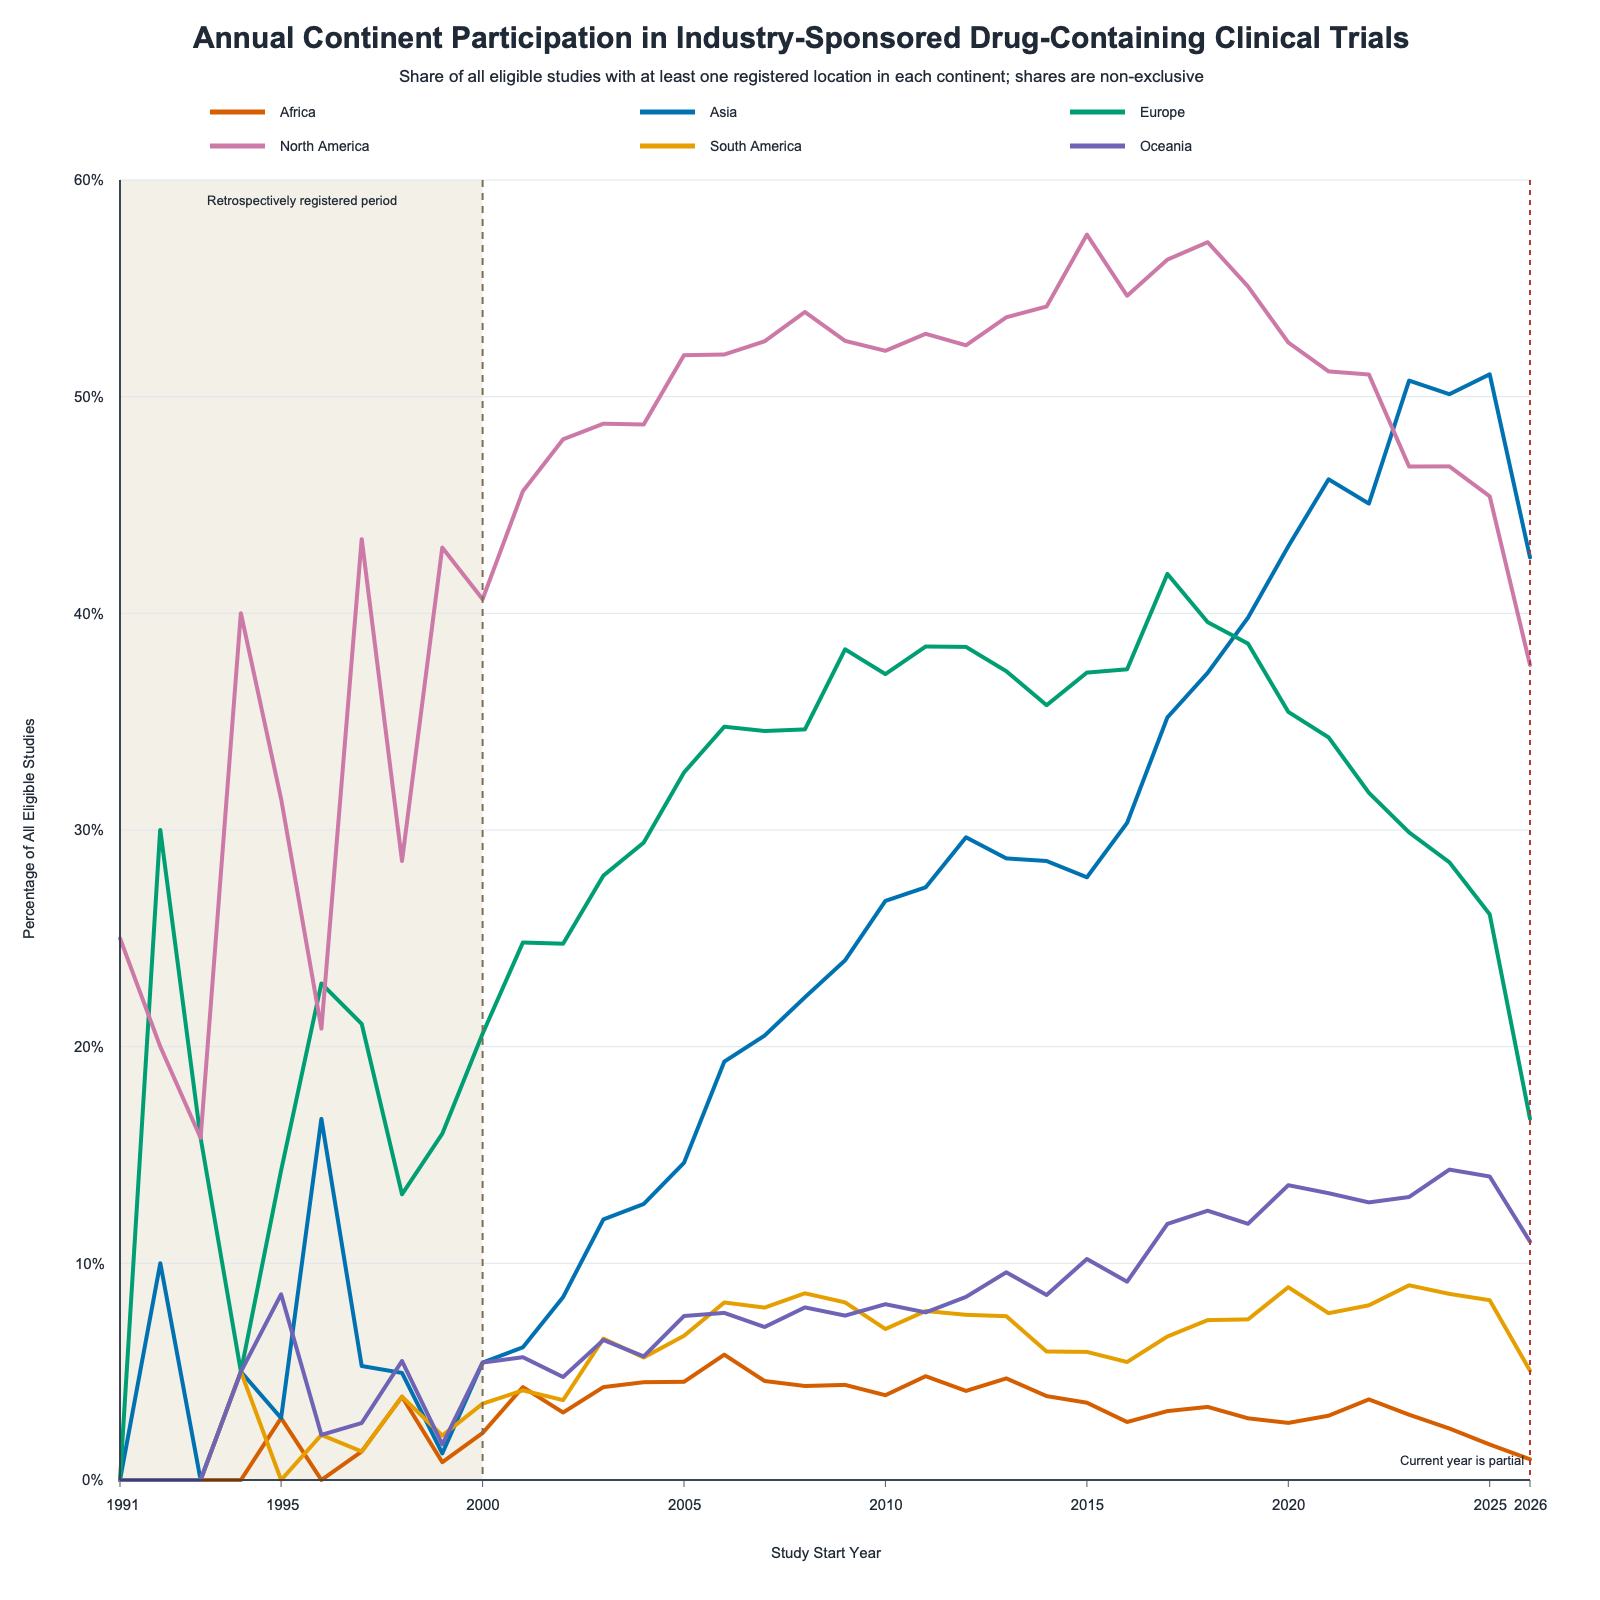
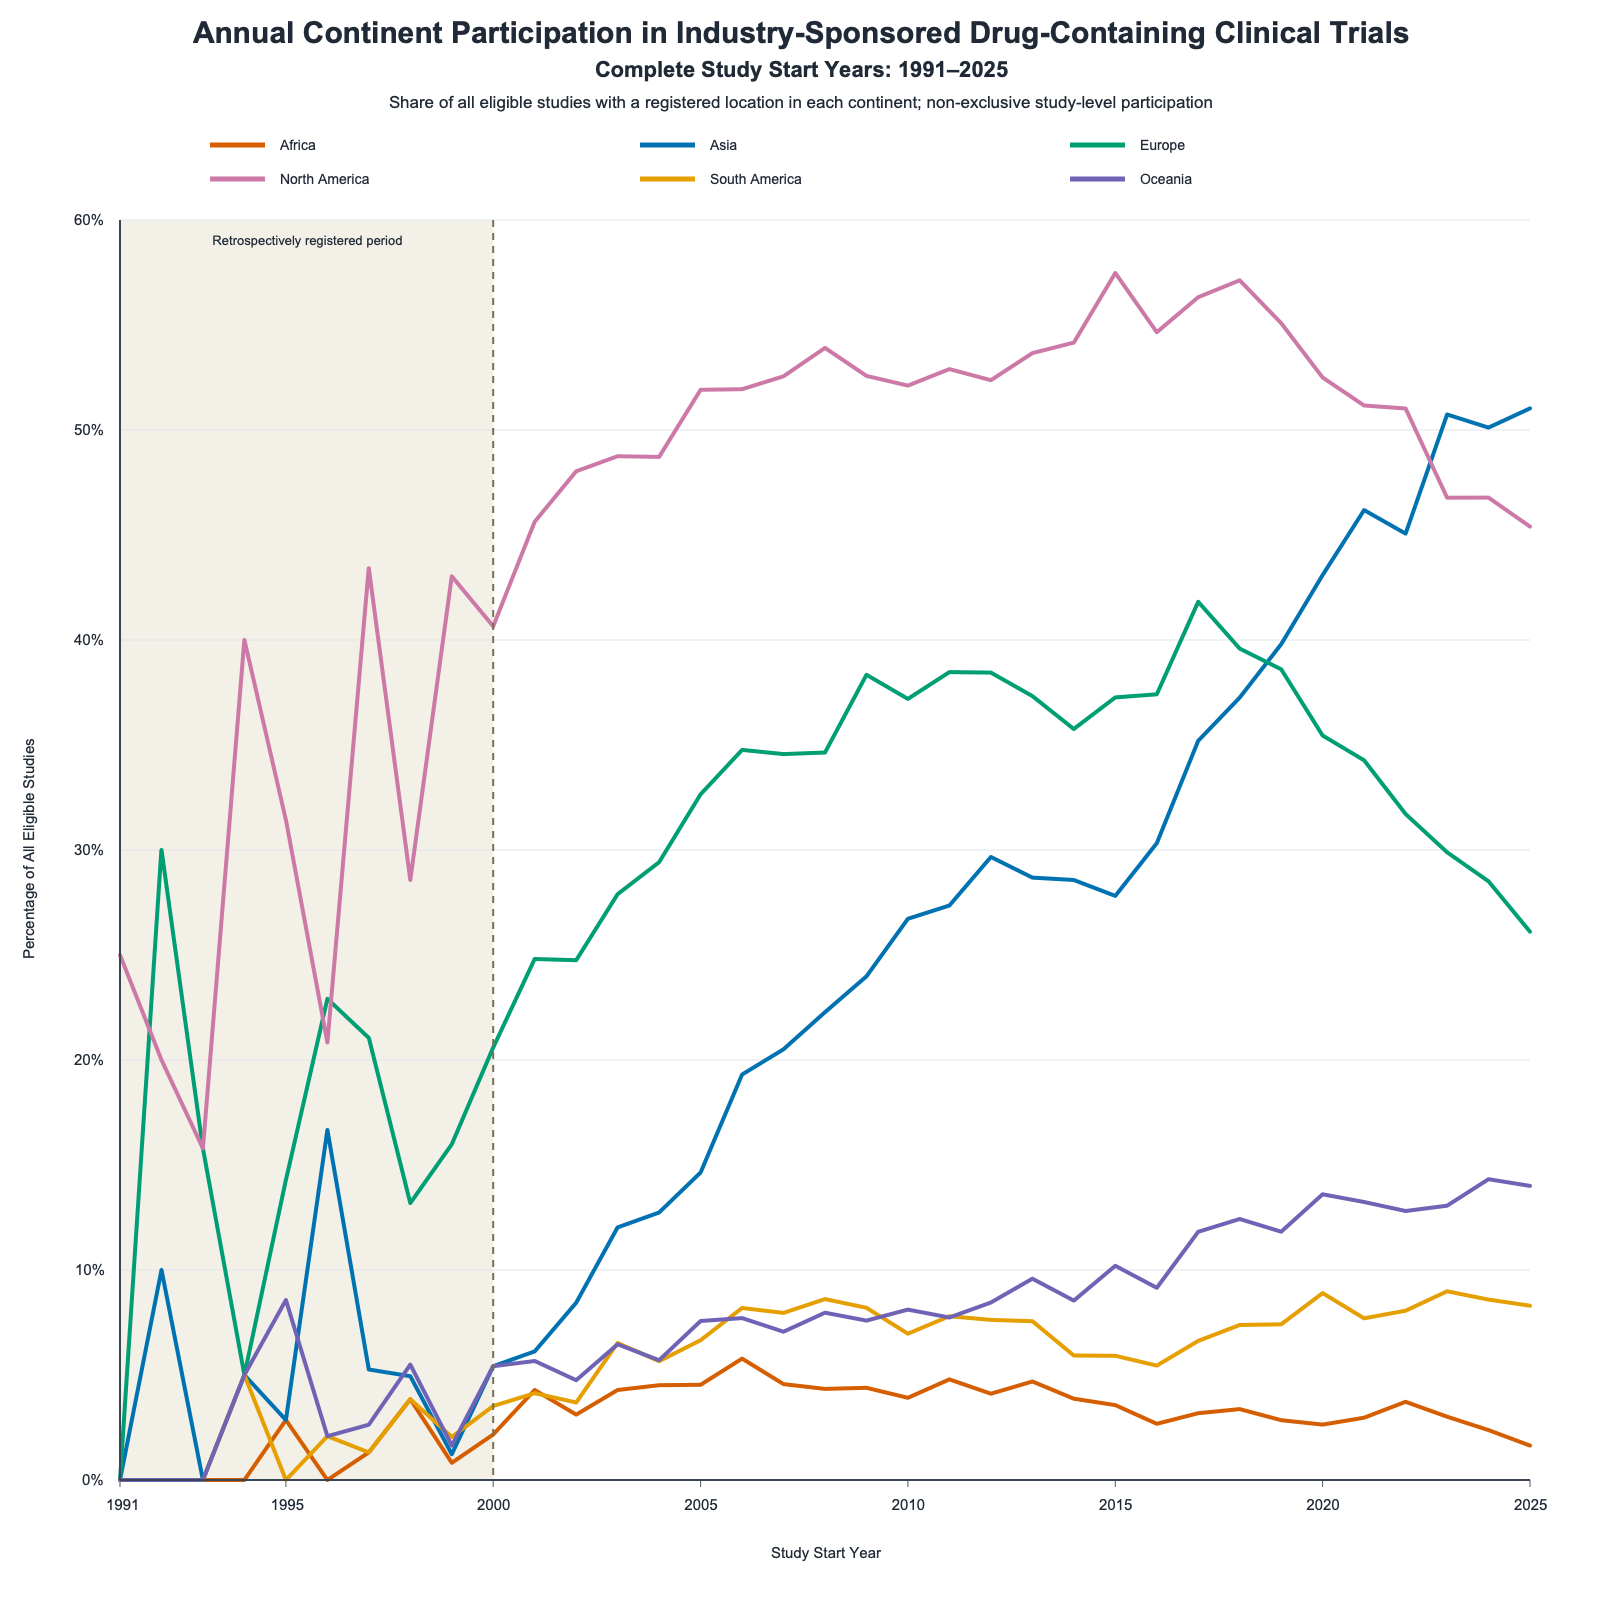
year cutoff to 2025

diff --git a/country_participation.py b/country_participation.py
@@ -412,9 +412,18 @@ def write_csv(path: Path, rows: list[dict], fieldnames: list[str]) -> None:
         writer.writerows(rows)
 
 
+def completed_chart_rows(rows: list[dict], latest_complete_year: int) -> list[dict]:
+    """Exclude partial/future Start Years from chart inputs."""
+    completed = [row for row in rows if row["Year"] <= latest_complete_year]
+    if not completed:
+        raise ValueError("chart has no completed Start Year observations")
+    return completed
+
+
 def chart_svg(rows: list[dict], path: Path, latest_complete_year: int) -> None:
+    rows = completed_chart_rows(rows, latest_complete_year)
     width, height = 1600, 1600
-    left, right, top, bottom = 120, 70, 145, 120
+    left, right, top, bottom = 120, 70, 175, 120
     plot_w, plot_h = width - left - right, height - top - bottom
     years = [row["Year"] for row in rows]
     annual = [row["Unique Countries Involved"] for row in rows]
@@ -429,9 +438,10 @@ def chart_svg(rows: list[dict], path: Path, latest_complete_year: int) -> None:
     parts = [
         f'<svg xmlns="http://www.w3.org/2000/svg" width="{width}" height="{height}" viewBox="0 0 {width} {height}">',
         f'<rect x="0" y="0" width="{width}" height="{height}" fill="#ffffff" fill-opacity="1"/>',
-        '<style>text{font-family:Arial,Helvetica,sans-serif;fill:#202936}.title{font-size:30px;font-weight:700}.subtitle{font-size:17px;fill:#556273}.axis{font-size:15px}.small{font-size:13px;fill:#687486}.legend{font-size:15px}</style>',
-        '<text x="800" y="48" text-anchor="middle" class="title">Annual Geographic Breadth of Industry-Sponsored Drug-Containing Clinical Trials</text>',
-        '<text x="800" y="82" text-anchor="middle" class="subtitle">Interventional studies with Lead Sponsor Class = INDUSTRY and at least one DRUG intervention</text>',
+        '<style>text{font-family:Arial,Helvetica,sans-serif;fill:#202936}.title{font-size:30px;font-weight:700}.period{font-size:22px;font-weight:700;fill:#146c94}.subtitle{font-size:17px;fill:#556273}.axis{font-size:15px}.small{font-size:13px;fill:#687486}.legend{font-size:15px}</style>',
+        '<text x="800" y="43" text-anchor="middle" class="title">Annual Geographic Breadth of Industry-Sponsored Drug-Containing Clinical Trials</text>',
+        f'<text x="800" y="77" text-anchor="middle" class="period">Complete Study Start Years: {years[0]}–{years[-1]}</text>',
+        '<text x="800" y="108" text-anchor="middle" class="subtitle">Interventional studies with Lead Sponsor Class = INDUSTRY and at least one DRUG intervention</text>',
         f'<rect x="{left}" y="{top}" width="{max(0, x(2000)-left):.1f}" height="{plot_h}" fill="#f3f0e8"/>',
         f'<text x="{(left+x(2000))/2:.1f}" y="{top+25}" text-anchor="middle" class="small">Pre-ClinicalTrials.gov / retrospectively registered period</text>',
     ]
@@ -451,20 +461,19 @@ def chart_svg(rows: list[dict], path: Path, latest_complete_year: int) -> None:
         f'<line x1="{left}" y1="{top}" x2="{left}" y2="{top+plot_h}" stroke="#394553" stroke-width="2"/>',
         f'<polyline points="{rolling_points}" fill="none" stroke="#9aa7b2" stroke-width="4" stroke-linejoin="round" stroke-linecap="round"/>',
         f'<polyline points="{annual_points}" fill="none" stroke="#146c94" stroke-width="5" stroke-linejoin="round" stroke-linecap="round"/>',
-        f'<line x1="{x(latest_complete_year+1):.1f}" y1="{top}" x2="{x(latest_complete_year+1):.1f}" y2="{top+plot_h}" stroke="#b33a3a" stroke-width="2" stroke-dasharray="5 5"/>',
-        f'<text x="{x(latest_complete_year+1)-8:.1f}" y="{top+plot_h-15}" text-anchor="end" class="small">Current year is partial</text>',
         f'<text x="{left+plot_w/2:.1f}" y="{height-42}" text-anchor="middle" class="axis">Study Start Year</text>',
         f'<text x="34" y="{top+plot_h/2:.1f}" text-anchor="middle" class="axis" transform="rotate(-90 34 {top+plot_h/2:.1f})">Number of Unique Countries Involved</text>',
-        f'<line x1="{width-520}" y1="110" x2="{width-465}" y2="110" stroke="#146c94" stroke-width="5"/><text x="{width-450}" y="115" class="legend">Annual active countries</text>',
-        f'<line x1="{width-270}" y1="110" x2="{width-215}" y2="110" stroke="#9aa7b2" stroke-width="4"/><text x="{width-200}" y="115" class="legend">3-year rolling</text>',
+        f'<line x1="{width-520}" y1="140" x2="{width-465}" y2="140" stroke="#146c94" stroke-width="5"/><text x="{width-450}" y="145" class="legend">Annual active countries</text>',
+        f'<line x1="{width-270}" y1="140" x2="{width-215}" y2="140" stroke="#9aa7b2" stroke-width="4"/><text x="{width-200}" y="145" class="legend">3-year rolling</text>',
         '</svg>',
     ]
     path.write_text("\n".join(parts) + "\n", encoding="utf-8")
 
 
 def continent_chart_svg(rows: list[dict], path: Path, latest_complete_year: int) -> None:
+    rows = completed_chart_rows(rows, latest_complete_year)
     width, height = 1600, 1600
-    left, right, top, bottom = 120, 70, 180, 120
+    left, right, top, bottom = 120, 70, 220, 120
     plot_w, plot_h = width - left - right, height - top - bottom
     years = sorted({row["Year"] for row in rows})
     by_continent = {
@@ -491,9 +500,10 @@ def continent_chart_svg(rows: list[dict], path: Path, latest_complete_year: int)
     parts = [
         f'<svg xmlns="http://www.w3.org/2000/svg" width="{width}" height="{height}" viewBox="0 0 {width} {height}">',
         f'<rect x="0" y="0" width="{width}" height="{height}" fill="#ffffff" fill-opacity="1"/>',
-        '<style>text{font-family:Arial,Helvetica,sans-serif;fill:#202936}.title{font-size:30px;font-weight:700}.subtitle{font-size:17px;fill:#556273}.axis{font-size:15px}.small{font-size:13px;fill:#687486}.legend{font-size:14px}</style>',
-        '<text x="800" y="48" text-anchor="middle" class="title">Annual Continent Participation in Industry-Sponsored Drug-Containing Clinical Trials</text>',
-        '<text x="800" y="82" text-anchor="middle" class="subtitle">Share of all eligible studies with at least one registered location in each continent; shares are non-exclusive</text>',
+        '<style>text{font-family:Arial,Helvetica,sans-serif;fill:#202936}.title{font-size:30px;font-weight:700}.period{font-size:22px;font-weight:700;fill:#146c94}.subtitle{font-size:17px;fill:#556273}.axis{font-size:15px}.small{font-size:13px;fill:#687486}.legend{font-size:14px}</style>',
+        '<text x="800" y="43" text-anchor="middle" class="title">Annual Continent Participation in Industry-Sponsored Drug-Containing Clinical Trials</text>',
+        f'<text x="800" y="77" text-anchor="middle" class="period">Complete Study Start Years: {years[0]}–{years[-1]}</text>',
+        '<text x="800" y="108" text-anchor="middle" class="subtitle">Share of all eligible studies with a registered location in each continent; non-exclusive study-level participation</text>',
         f'<rect x="{left}" y="{top}" width="{max(0, x(2000)-left):.1f}" height="{plot_h}" fill="#f3f0e8"/>',
         f'<text x="{(left+x(2000))/2:.1f}" y="{top+25}" text-anchor="middle" class="small">Retrospectively registered period</text>',
     ]
@@ -521,8 +531,6 @@ def continent_chart_svg(rows: list[dict], path: Path, latest_complete_year: int)
         )
     parts += [
         f'<line x1="{x(2000):.1f}" y1="{top}" x2="{x(2000):.1f}" y2="{top+plot_h}" stroke="#7a6f55" stroke-width="2" stroke-dasharray="7 6"/>',
-        f'<line x1="{x(latest_complete_year+1):.1f}" y1="{top}" x2="{x(latest_complete_year+1):.1f}" y2="{top+plot_h}" stroke="#b33a3a" stroke-width="2" stroke-dasharray="5 5"/>',
-        f'<text x="{x(latest_complete_year+1)-8:.1f}" y="{top+plot_h-15}" text-anchor="end" class="small">Current year is partial</text>',
         f'<line x1="{left}" y1="{top+plot_h}" x2="{width-right}" y2="{top+plot_h}" stroke="#394553" stroke-width="2"/>',
         f'<line x1="{left}" y1="{top}" x2="{left}" y2="{top+plot_h}" stroke="#394553" stroke-width="2"/>',
         f'<text x="{left+plot_w/2:.1f}" y="{height-42}" text-anchor="middle" class="axis">Study Start Year</text>',
@@ -530,7 +538,7 @@ def continent_chart_svg(rows: list[dict], path: Path, latest_complete_year: int)
     ]
     for index, continent in enumerate(CONTINENT_ORDER):
         legend_x = 210 + (index % 3) * 430
-        legend_y = 112 + (index // 3) * 34
+        legend_y = 145 + (index // 3) * 34
         parts += [
             f'<line x1="{legend_x}" y1="{legend_y}" x2="{legend_x+55}" y2="{legend_y}" stroke="{colors[continent]}" stroke-width="5"/>',
             f'<text x="{legend_x+70}" y="{legend_y+5}" class="legend">{continent}</text>',
@@ -540,8 +548,9 @@ def continent_chart_svg(rows: list[dict], path: Path, latest_complete_year: int)
 
 
 def nexus_chart_svg(rows: list[dict], path: Path, latest_complete_year: int) -> None:
+    rows = completed_chart_rows(rows, latest_complete_year)
     width, height = 1600, 1600
-    left, right, top, bottom = 120, 70, 155, 120
+    left, right, top, bottom = 120, 70, 185, 120
     plot_w, plot_h = width - left - right, height - top - bottom
     years = [row["Year"] for row in rows]
     counts = [row["NEXUS Studies"] for row in rows]
@@ -556,9 +565,10 @@ def nexus_chart_svg(rows: list[dict], path: Path, latest_complete_year: int) -> 
     parts = [
         f'<svg xmlns="http://www.w3.org/2000/svg" width="{width}" height="{height}" viewBox="0 0 {width} {height}">',
         f'<rect x="0" y="0" width="{width}" height="{height}" fill="#ffffff" fill-opacity="1"/>',
-        '<style>text{font-family:Arial,Helvetica,sans-serif;fill:#202936}.title{font-size:30px;font-weight:700}.subtitle{font-size:17px;fill:#556273}.axis{font-size:15px}.small{font-size:13px;fill:#687486}.legend{font-size:15px}</style>',
-        '<text x="800" y="48" text-anchor="middle" class="title">Annual NEXUS Studies by Registered Study Start Year</text>',
-        '<text x="800" y="82" text-anchor="middle" class="subtitle">Industry-sponsored Interventional DRUG-containing studies with both United States and China registered locations</text>',
+        '<style>text{font-family:Arial,Helvetica,sans-serif;fill:#202936}.title{font-size:30px;font-weight:700}.period{font-size:22px;font-weight:700;fill:#7b2cbf}.subtitle{font-size:17px;fill:#556273}.axis{font-size:15px}.small{font-size:13px;fill:#687486}.legend{font-size:15px}</style>',
+        '<text x="800" y="43" text-anchor="middle" class="title">Annual NEXUS Studies by Registered Study Start Year</text>',
+        f'<text x="800" y="77" text-anchor="middle" class="period">Complete Study Start Years: {years[0]}–{years[-1]}</text>',
+        '<text x="800" y="108" text-anchor="middle" class="subtitle">Industry-sponsored Interventional DRUG-containing studies with both United States and China locations</text>',
         f'<rect x="{left}" y="{top}" width="{max(0, x(2000)-left):.1f}" height="{plot_h}" fill="#f3f0e8"/>',
         f'<text x="{(left+x(2000))/2:.1f}" y="{top+25}" text-anchor="middle" class="small">Retrospectively registered period</text>',
     ]
@@ -577,16 +587,14 @@ def nexus_chart_svg(rows: list[dict], path: Path, latest_complete_year: int) -> 
             ]
     parts += [
         f'<line x1="{x(2000):.1f}" y1="{top}" x2="{x(2000):.1f}" y2="{top+plot_h}" stroke="#7a6f55" stroke-width="2" stroke-dasharray="7 6"/>',
-        f'<line x1="{x(latest_complete_year+1):.1f}" y1="{top}" x2="{x(latest_complete_year+1):.1f}" y2="{top+plot_h}" stroke="#b33a3a" stroke-width="2" stroke-dasharray="5 5"/>',
         f'<polyline points="{moving_points}" fill="none" stroke="#9aa7b2" stroke-width="4" stroke-linejoin="round" stroke-linecap="round"/>',
         f'<polyline points="{count_points}" fill="none" stroke="#7b2cbf" stroke-width="5" stroke-linejoin="round" stroke-linecap="round"/>',
-        f'<text x="{x(latest_complete_year+1)-8:.1f}" y="{top+plot_h-15}" text-anchor="end" class="small">Current year is partial</text>',
         f'<line x1="{left}" y1="{top+plot_h}" x2="{width-right}" y2="{top+plot_h}" stroke="#394553" stroke-width="2"/>',
         f'<line x1="{left}" y1="{top}" x2="{left}" y2="{top+plot_h}" stroke="#394553" stroke-width="2"/>',
         f'<text x="{left+plot_w/2:.1f}" y="{height-42}" text-anchor="middle" class="axis">Study Start Year</text>',
         f'<text x="34" y="{top+plot_h/2:.1f}" text-anchor="middle" class="axis" transform="rotate(-90 34 {top+plot_h/2:.1f})">Number of NEXUS Studies</text>',
-        f'<line x1="{width-580}" y1="112" x2="{width-525}" y2="112" stroke="#7b2cbf" stroke-width="5"/><text x="{width-510}" y="117" class="legend">Annual NEXUS studies</text>',
-        f'<line x1="{width-300}" y1="112" x2="{width-245}" y2="112" stroke="#9aa7b2" stroke-width="4"/><text x="{width-230}" y="117" class="legend">3-year moving average</text>',
+        f'<line x1="{width-580}" y1="145" x2="{width-525}" y2="145" stroke="#7b2cbf" stroke-width="5"/><text x="{width-510}" y="150" class="legend">Annual NEXUS studies</text>',
+        f'<line x1="{width-300}" y1="145" x2="{width-245}" y2="145" stroke="#9aa7b2" stroke-width="4"/><text x="{width-230}" y="150" class="legend">3-year moving average</text>',
         "</svg>",
     ]
     path.write_text("\n".join(parts) + "\n", encoding="utf-8")

diff --git a/tests/test_country_participation.py b/tests/test_country_participation.py
@@ -2,7 +2,8 @@ import unittest
 from pathlib import Path
 
 from country_participation import (
-    aggregate_observations, eligible_observation, load_continent_mapping, parse_start_year,
+    aggregate_observations, completed_chart_rows, eligible_observation, load_continent_mapping,
+    parse_start_year,
 )
 
 
@@ -19,6 +20,13 @@ def study(nct_id, start_date, countries, *, study_type="INTERVENTIONAL",
 
 
 class CountryParticipationTests(unittest.TestCase):
+    def test_completed_chart_rows_excludes_partial_snapshot_year(self):
+        rows = [{"Year": 2024}, {"Year": 2025}, {"Year": 2026}]
+        self.assertEqual(
+            completed_chart_rows(rows, 2025),
+            [{"Year": 2024}, {"Year": 2025}],
+        )
+
     def test_start_year_accepts_supported_precision_and_rejects_invalid_dates(self):
         self.assertEqual(parse_start_year("2024"), 2024)
         self.assertEqual(parse_start_year("2024-02"), 2024)

diff --git a/README.md b/README.md
@@ -116,7 +116,7 @@ Add `--phase-audit` to require a Phase-enabled snapshot and emit two aggregate-o
   --outdir reports/country_participation_trend
 ```
 
-Outputs are lightweight annual, first-participation, and returning-country CSVs; a summary-only workbook and Markdown report; and PNG/SVG trend charts. No study-level export is created. Pre-2000 Start Dates are explicitly labeled as retrospectively registered-period data, and the current snapshot year is labeled partial.
+Outputs are lightweight annual, first-participation, and returning-country CSVs; a summary-only workbook and Markdown report; and PNG/SVG trend charts. No study-level export is created. Pre-2000 Start Dates are explicitly labeled as retrospectively registered-period data. Tables retain the current snapshot year as a labeled partial observation, while all three trend charts end at the latest complete Start Year and exclude the partial current year.
 
 The same analysis also reports annual continent participation rates using the explicit, version-controlled `continent_mapping.json`. The six-continent view is derived from the UN Statistics Division M49 regions: Northern America, Central America, and the Caribbean are grouped as North America, while South America remains separate. A study with registered locations in multiple continents counts once in each participating continent, so continent percentages are non-exclusive and may sum to more than 100%. The primary denominator remains all eligible studies starting in the year, including studies with no usable location country.
 

diff --git a/README_ZH.md b/README_ZH.md
@@ -135,7 +135,7 @@ AND contains at least one InterventionType == DRUG
   --outdir reports/country_participation_trend
 ```
 
-输出包括轻量年度CSV、首次参与和returning-country CSV、summary-only workbook、Markdown report，以及PNG/SVG趋势图。不会生成study-level export。2000年以前的Start Dates明确标记为回溯登记时期数据；snapshot当年标记为partial year。
+输出包括轻量年度CSV、首次参与和returning-country CSV、summary-only workbook、Markdown report，以及PNG/SVG趋势图。不会生成study-level export。2000年以前的Start Dates明确标记为回溯登记时期数据。表格保留snapshot当年并标记为partial year，三张趋势图则统一截止到最后一个完整Start Year，排除当前未完整年度。
 
 同一分析还使用显式且纳入版本控制的`continent_mapping.json`报告年度大洲参与率。六大洲定义由联合国统计司M49地区派生：Northern America、Central America和Caribbean合并为North America，South America保持独立。
 
